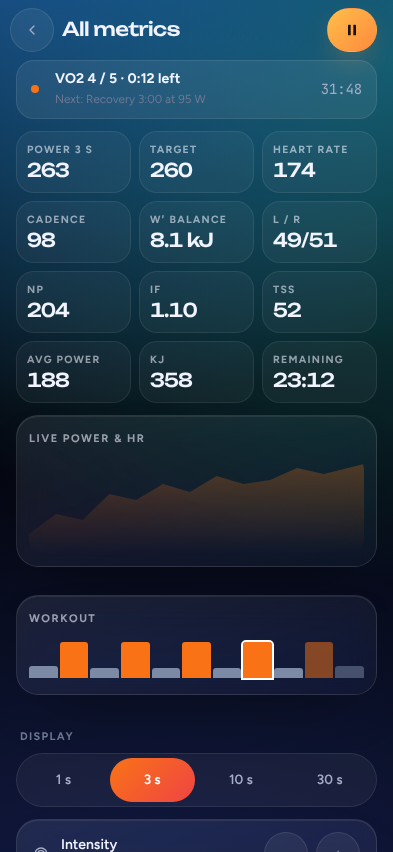
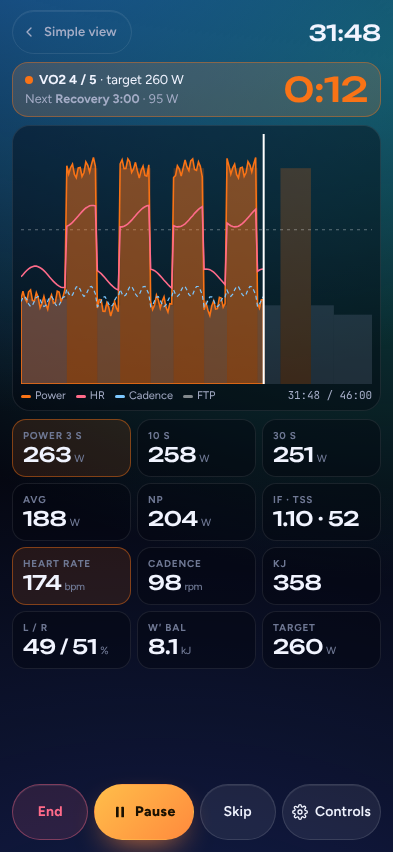
docs(ux): all-metrics ride view, portrait and landscape
Claude-Session: https://claude.ai/code/session_01HLsCRAR7ggr5wR8fQJGWzk

diff --git a/docs/ux/mockups.html b/docs/ux/mockups.html
@@ -131,6 +131,34 @@
     .mx-land-side { display: flex; flex-direction: column; gap: 10px; justify-content: space-between; }
     .mx-land-ctrl { display: grid; grid-template-columns: 1fr 1.3fr 1fr 44px; gap: 6px; }
     .mx-land-ctrl .btn { min-height: 56px; justify-content: center; padding: 0 8px; }
+    .mx-full { flex: 1; display: flex; flex-direction: column; gap: 8px; padding: 10px 12px 12px; min-height: 0; }
+    .mx-full .mx-lv-top .btn { padding: 0 14px 0 8px; }
+    .mx-istrip { display: grid; grid-template-columns: 1fr auto; grid-template-rows: auto auto; column-gap: 10px; align-items: center; padding: 8px 12px; border-radius: 16px;
+      background: color-mix(in srgb, var(--zone-a) 14%, rgba(255,255,255,.04)); border: 1px solid color-mix(in srgb, var(--zone-a) 40%, transparent); font-size: 13px; }
+    .mx-ileft { grid-row: 1 / span 2; grid-column: 2; font: 500 34px/1 var(--font-display); color: var(--zone-a); }
+    .mx-inext { color: var(--text-2); font-size: 12.5px; }
+    .mx-gcard { border-radius: 18px; background: var(--surface-sunk); border: 1px solid var(--line); padding: 8px 8px 6px; }
+    .mx-graph { display: block; width: 100%; height: 250px; }
+    .mx-legend { display: flex; gap: 10px; align-items: center; font-size: 11px; color: var(--text-2); margin-top: 4px; flex-wrap: wrap; }
+    .mx-legend i { display: inline-block; width: 10px; height: 3px; border-radius: 2px; margin-right: 4px; vertical-align: middle; }
+    .mx-lg-time { margin-left: auto; }
+    .mx-tiles { display: grid; grid-template-columns: repeat(3, 1fr); gap: 6px; }
+    .mx-t { display: flex; flex-direction: column; justify-content: center; padding: 7px 10px; min-height: 58px; border-radius: 14px; background: var(--surface-sunk); border: 1px solid var(--line); min-width: 0; }
+    .mx-t span { font-size: 10px; font-weight: 700; letter-spacing: .08em; text-transform: uppercase; color: var(--text-3); white-space: nowrap; }
+    .mx-t b { font: 500 20px/1.2 var(--font-display); white-space: nowrap; letter-spacing: -.02em; }
+    .mx-t b small { font: 500 10.5px var(--font-sans); color: var(--text-3); margin-left: 3px; }
+    .mx-t-hero { border-color: color-mix(in srgb, var(--zone-a) 45%, transparent); background: color-mix(in srgb, var(--zone-a) 12%, transparent); }
+    .mx-fctrl { display: grid; grid-template-columns: 1fr 1.3fr 1fr 1.3fr; gap: 6px; margin-top: auto; }
+    .mx-fctrl .btn { min-height: 56px; padding: 0 6px; font-size: 14px; }
+    .mx-full-l { flex: 1; display: grid; grid-template-columns: minmax(0, 1fr) 330px; gap: 10px; padding: 8px 12px; min-height: 0; }
+    .mx-fl-left { display: flex; flex-direction: column; gap: 6px; min-width: 0; }
+    .mx-full-l .mx-graph { height: 150px; }
+    .mx-full-l .mx-istrip { padding: 4px 12px; }
+    .mx-full-l .mx-ileft { font-size: 28px; }
+    .mx-full-l .mx-fctrl .btn { min-height: 48px; }
+    .mx-tiles-l { grid-template-rows: repeat(4, 1fr); align-content: stretch; }
+    .mx-tiles-l .mx-t { min-height: 0; padding: 4px 10px; }
+    .mx-tiles-l .mx-t b { font-size: 18px; }
   </style>
 </head>
 <body class="mx">
@@ -199,7 +227,7 @@
   <a href="#progress-fitness">Progress › Fitness</a><a href="#you-connections">You › Connections</a><a href="#you-data">You › Data &amp; import</a>
   <div class="grp">Live ride</div>
   <a href="#live-vo2">a · VO2, end of step</a><a href="#live-recovery">b · Recovery step</a><a href="#live-ramp">c · Ramp test</a><a href="#live-free">d · Free ride, HR only</a>
-  <a href="#live-full">e · All metrics</a><a href="#live-landscape">f · Landscape</a><a href="#live-paused">g · Paused, reconnecting</a><a href="#live-summary">h · Ride summary</a>
+  <a href="#live-full">e · All metrics</a><a href="#live-full-landscape">e · All metrics, landscape</a><a href="#live-controls">e · Ride controls sheet</a><a href="#live-landscape">f · Landscape</a><a href="#live-paused">g · Paused, reconnecting</a><a href="#live-summary">h · Ride summary</a>
   <div class="grp">First run</div>
   <a href="#ob-1">1 · Rider profile</a><a href="#ob-2">2 · Pair devices</a><a href="#ob-3">3 · Connect services</a>
 </nav>
@@ -318,27 +346,55 @@
   </section>
 
   <section class="mx-screen" id="live-full" data-tab="ride" data-notabs style="--zone-a:#f97316;--zone-b:#ef4444">
-    <header class="mx-top"><a class="icon-btn mx-back" href="#live-vo2" aria-label="Back to simple view"><svg class="ic"><use href="#i-left"/></svg></a><h2 style="font-size:19px">All metrics</h2><a class="btn btn-pause" href="#live-paused" style="min-height:44px"><svg class="ic"><use href="#i-pause"/></svg></a></header>
-    <div class="mx-body">
-      <div class="mx-next" style="margin:0"><span class="mx-dot" style="background:var(--z5)"></span><div><b>VO2 4 / 5 · 0:12 left</b><small>Next: Recovery 3:00 at 95 W</small></div><span class="num">31:48</span></div>
-      <div class="mx-mgrid">
-        <div class="kpi"><span class="kpi-lbl">Power 3 s</span><span class="kpi-val num">263</span></div><div class="kpi"><span class="kpi-lbl">Target</span><span class="kpi-val num">260</span></div><div class="kpi"><span class="kpi-lbl">Heart rate</span><span class="kpi-val num">174</span></div>
-        <div class="kpi"><span class="kpi-lbl">Cadence</span><span class="kpi-val num">98</span></div><div class="kpi"><span class="kpi-lbl">W′ balance</span><span class="kpi-val num">8.1 kJ</span></div><div class="kpi"><span class="kpi-lbl">L / R</span><span class="kpi-val num">49/51</span></div>
-        <div class="kpi"><span class="kpi-lbl">NP</span><span class="kpi-val num">204</span></div><div class="kpi"><span class="kpi-lbl">IF</span><span class="kpi-val num">1.10</span></div><div class="kpi"><span class="kpi-lbl">TSS</span><span class="kpi-val num">52</span></div>
-        <div class="kpi"><span class="kpi-lbl">Avg power</span><span class="kpi-val num">188</span></div><div class="kpi"><span class="kpi-lbl">kJ</span><span class="kpi-val num">358</span></div><div class="kpi"><span class="kpi-lbl">Remaining</span><span class="kpi-val num">23:12</span></div>
+    <div class="mx-full">
+      <div class="mx-lv-top"><a class="btn btn-ghost" href="#live-vo2"><svg class="ic"><use href="#i-left"/></svg>Simple view</a><span class="mx-lv-clock num">31:48</span></div>
+      <div class="mx-istrip"><div><span class="mx-dot" style="background:var(--z5)"></span><b>VO2 4 / 5</b> · target 260 W</div><b class="num mx-ileft">0:12</b><div class="mx-inext">Next <b>Recovery 3:00</b> · 95 W</div></div>
+      <div class="mx-gcard"><svg class="mx-graph" viewBox="0 0 360 150" preserveAspectRatio="none" aria-label="Live power, heart rate and cadence over the workout profile">
+          <rect x="0.0" y="99.1" width="47.0" height="50.9" fill="var(--z2)" opacity=".22"/><rect x="47.0" y="20.5" width="31.3" height="129.5" fill="var(--z5)" opacity=".22"/><rect x="78.3" y="102.8" width="23.5" height="47.2" fill="var(--z1)" opacity=".22"/><rect x="101.7" y="20.5" width="31.3" height="129.5" fill="var(--z5)" opacity=".22"/><rect x="133.0" y="102.8" width="23.5" height="47.2" fill="var(--z1)" opacity=".22"/><rect x="156.5" y="20.5" width="31.3" height="129.5" fill="var(--z5)" opacity=".22"/><rect x="187.8" y="102.8" width="23.5" height="47.2" fill="var(--z1)" opacity=".22"/><rect x="211.3" y="20.5" width="31.3" height="129.5" fill="var(--z5)" opacity=".22"/><rect x="242.6" y="102.8" width="23.5" height="47.2" fill="var(--z1)" opacity=".22"/><rect x="266.1" y="20.5" width="31.3" height="129.5" fill="var(--z5)" opacity=".22"/><rect x="297.4" y="102.8" width="23.5" height="47.2" fill="var(--z1)" opacity=".22"/><rect x="320.9" y="108.4" width="39.1" height="41.6" fill="var(--z1)" opacity=".22"/>
+          <line x1="0" x2="360" y1="57.5" y2="57.5" stroke="rgba(255,255,255,.35)" stroke-dasharray="3 4" stroke-width="1" vector-effect="non-scaling-stroke"/>
+          <path d="M0,150 L0.0,99.1 2.0,94.3 3.9,98.5 5.9,100.6 7.8,94.7 9.8,93.5 11.7,99.9 13.7,100.3 15.7,95.2 17.6,98.0 19.6,104.3 21.5,101.7 23.5,97.5 25.4,102.0 27.4,105.2 29.3,99.4 31.3,96.5 33.3,101.5 35.2,101.1 37.2,94.3 39.1,94.8 41.1,100.3 43.0,97.9 45.0,93.2 47.0,19.0 48.9,24.0 50.9,20.1 52.8,18.1 54.8,24.3 56.7,26.2 58.7,20.3 60.7,20.1 62.6,25.5 64.6,23.1 66.5,16.7 68.5,18.8 70.4,22.8 72.4,18.0 74.3,14.1 76.3,19.4 78.3,104.4 80.2,99.3 82.2,99.4 84.1,106.3 86.1,106.4 88.0,101.3 90.0,103.9 92.0,109.2 93.9,105.4 95.9,100.5 97.8,104.4 99.8,106.6 101.7,17.9 103.7,15.4 105.7,20.8 107.6,20.7 109.6,14.9 111.5,16.7 113.5,23.0 115.4,21.0 117.4,17.0 119.3,22.0 121.3,26.5 123.3,21.8 125.2,19.3 127.2,24.8 129.1,25.3 131.1,18.5 133.0,100.4 135.0,105.3 137.0,102.6 138.9,96.7 140.9,99.8 142.8,104.4 144.8,100.3 146.7,97.7 148.7,104.0 150.7,106.8 152.6,101.8 154.6,102.0 156.5,26.1 158.5,25.0 160.4,19.0 162.4,21.0 164.3,25.3 166.3,20.5 168.3,15.5 170.2,19.7 172.2,21.9 174.1,16.1 176.1,14.9 178.0,21.3 180.0,21.8 182.0,16.7 183.9,19.4 185.9,25.7 187.8,105.5 189.8,101.3 191.7,105.7 193.7,108.9 195.7,103.0 197.6,100.1 199.6,105.0 201.5,104.8 203.5,98.0 205.4,98.4 207.4,103.9 209.3,101.7 211.3,14.6 213.3,19.1 215.2,24.1 217.2,20.3 219.1,18.1 221.1,24.3 223.0,26.3 225.0,20.3 227.0,20.0 228.9,25.4 230.9,23.1 232.8,16.6 234.8,18.7 236.7,22.7 238.7,18.0 240.7,14.1 242.6,101.7 244.6,104.5 246.5,99.5 248.5,99.4 L248.9,150 Z" fill="color-mix(in srgb, var(--zone-a) 35%, transparent)" stroke="var(--zone-a)" stroke-width="1.6" vector-effect="non-scaling-stroke"/>
+          <polyline points="0.0,85.7 2.0,84.4 3.9,83.1 5.9,81.9 7.8,80.9 9.8,80.1 11.7,79.6 13.7,79.3 15.7,79.3 17.6,79.6 19.6,80.2 21.5,81.0 23.5,82.0 25.4,83.1 27.4,84.4 29.3,85.8 31.3,87.1 33.3,88.4 35.2,89.5 37.2,90.5 39.1,91.3 41.1,91.9 43.0,92.1 45.0,92.1 47.0,55.4 48.9,54.8 50.9,54.0 52.8,53.0 54.8,51.8 56.7,50.5 58.7,49.2 60.7,47.8 62.6,46.6 64.6,45.4 66.5,44.4 68.5,43.7 70.4,43.1 72.4,42.9 74.3,42.9 76.3,43.2 78.3,81.9 80.2,82.8 82.2,83.8 84.1,85.0 86.1,86.2 88.0,87.6 90.0,88.9 92.0,90.2 93.9,91.3 95.9,92.3 97.8,93.1 99.8,93.6 101.7,55.7 103.7,55.7 105.7,55.3 107.6,54.8 109.6,53.9 111.5,52.9 113.5,51.7 115.4,50.4 117.4,49.1 119.3,47.7 121.3,46.5 123.3,45.3 125.2,44.4 127.2,43.6 129.1,43.1 131.1,42.9 133.0,81.1 135.0,81.4 137.0,82.0 138.9,82.8 140.9,83.9 142.8,85.1 144.8,86.4 146.7,87.7 148.7,89.0 150.7,90.3 152.6,91.4 154.6,92.4 156.5,55.0 158.5,55.5 160.4,55.7 162.4,55.6 164.3,55.3 166.3,54.7 168.3,53.9 170.2,52.8 172.2,51.6 174.1,50.3 176.1,49.0 178.0,47.6 180.0,46.4 182.0,45.2 183.9,44.3 185.9,43.6 187.8,81.2 189.8,81.0 191.7,81.1 193.7,81.4 195.7,82.1 197.6,82.9 199.6,84.0 201.5,85.2 203.5,86.5 205.4,87.8 207.4,89.1 209.3,90.4 211.3,53.4 213.3,54.3 215.2,55.0 217.2,55.5 219.1,55.7 221.1,55.6 223.0,55.3 225.0,54.6 227.0,53.8 228.9,52.7 230.9,51.5 232.8,50.2 234.8,48.9 236.7,47.5 238.7,46.3 240.7,45.2 242.6,82.4 244.6,81.6 246.5,81.2 248.5,81.0" fill="none" stroke="var(--rose)" stroke-width="1.6" vector-effect="non-scaling-stroke"/>
+          <polyline points="0.0,100.5 2.0,98.1 3.9,97.5 5.9,99.2 7.8,101.9 9.8,103.5 11.7,102.9 13.7,100.4 15.7,98.0 17.6,97.5 19.6,99.2 21.5,101.9 23.5,103.5 25.4,102.9 27.4,100.4 29.3,98.0 31.3,97.5 33.3,99.3 35.2,102.0 37.2,103.5 39.1,102.8 41.1,100.3 43.0,98.0 45.0,97.5 47.0,93.1 48.9,95.8 50.9,97.4 52.8,96.6 54.8,94.1 56.7,91.8 58.7,91.4 60.7,93.2 62.6,95.9 64.6,97.4 66.5,96.6 68.5,94.1 70.4,91.7 72.4,91.4 74.3,93.2 76.3,95.9 78.3,103.6 80.2,102.7 82.2,100.2 84.1,97.9 86.1,97.6 88.0,99.5 90.0,102.1 92.0,103.6 93.9,102.7 95.9,100.1 97.8,97.9 99.8,97.6 101.7,93.3 103.7,96.0 105.7,97.4 107.6,96.5 109.6,93.9 111.5,91.7 113.5,91.4 115.4,93.4 117.4,96.0 119.3,97.4 121.3,96.4 123.3,93.8 125.2,91.6 127.2,91.4 129.1,93.4 131.1,96.1 133.0,103.6 135.0,102.6 137.0,100.0 138.9,97.8 140.9,97.6 142.8,99.7 144.8,102.3 146.7,103.6 148.7,102.5 150.7,99.9 152.6,97.8 154.6,97.7 156.5,93.5 158.5,96.2 160.4,97.4 162.4,96.3 164.3,93.7 166.3,91.6 168.3,91.5 170.2,93.6 172.2,96.2 174.1,97.4 176.1,96.3 178.0,93.6 180.0,91.5 182.0,91.5 183.9,93.6 185.9,96.3 187.8,103.6 189.8,102.4 191.7,99.8 193.7,97.7 195.7,97.7 197.6,99.9 199.6,102.5 201.5,103.6 203.5,102.4 205.4,99.7 207.4,97.7 209.3,97.8 211.3,93.7 213.3,96.3 215.2,97.4 217.2,96.1 219.1,93.5 221.1,91.5 223.0,91.6 225.0,93.8 227.0,96.4 228.9,97.4 230.9,96.1 232.8,93.4 234.8,91.4 236.7,91.6 238.7,93.8 240.7,96.4 242.6,103.6 244.6,102.2 246.5,99.6 248.5,97.6" fill="none" stroke="var(--cyan)" stroke-width="1.2" stroke-dasharray="4 3" vector-effect="non-scaling-stroke"/>
+          <line x1="248.9" x2="248.9" y1="0" y2="150" stroke="#fff" stroke-width="2" vector-effect="non-scaling-stroke"/>
+        </svg><div class="mx-legend"><span><i style="background:var(--zone-a)"></i>Power</span><span><i style="background:var(--rose)"></i>HR</span><span><i style="background:var(--cyan)"></i>Cadence</span><span><i style="background:rgba(255,255,255,.5)"></i>FTP</span><span class="mx-lg-time num">31:48 / 46:00</span></div></div>
+      <div class="mx-tiles"><div class="mx-t mx-t-hero"><span>Power 3 s</span><b class="num">263<small>W</small></b></div><div class="mx-t"><span>10 s</span><b class="num">258<small>W</small></b></div><div class="mx-t"><span>30 s</span><b class="num">251<small>W</small></b></div><div class="mx-t"><span>Avg</span><b class="num">188<small>W</small></b></div><div class="mx-t"><span>NP</span><b class="num">204<small>W</small></b></div><div class="mx-t"><span>IF · TSS</span><b class="num">1.10 · 52<small></small></b></div><div class="mx-t mx-t-hero"><span>Heart rate</span><b class="num">174<small>bpm</small></b></div><div class="mx-t"><span>Cadence</span><b class="num">98<small>rpm</small></b></div><div class="mx-t"><span>kJ</span><b class="num">358<small></small></b></div><div class="mx-t"><span>L / R</span><b class="num">49 / 51<small>%</small></b></div><div class="mx-t"><span>W′ bal</span><b class="num">8.1<small>kJ</small></b></div><div class="mx-t"><span>Target</span><b class="num">260<small>W</small></b></div></div>
+      <div class="mx-fctrl"><a class="btn btn-stop" href="#live-summary">End</a><a class="btn btn-pause" href="#live-paused"><svg class="ic"><use href="#i-pause"/></svg>Pause</a><a class="btn" href="#live-recovery">Skip</a><a class="btn" href="#live-controls"><svg class="ic"><use href="#i-gear"/></svg>Controls</a></div>
+    </div>
+  </section>
+
+  <section class="mx-screen" id="live-full-landscape" data-tab="ride" data-notabs data-landscape style="--zone-a:#f97316;--zone-b:#ef4444">
+    <div class="mx-full-l">
+      <div class="mx-fl-left">
+        <div class="mx-istrip"><div><span class="mx-dot" style="background:var(--z5)"></span><b>VO2 4 / 5</b> · target 260 W</div><b class="num mx-ileft">0:12</b><div class="mx-inext">Next <b>Recovery 3:00</b> · 95 W</div></div>
+        <div class="mx-gcard"><svg class="mx-graph" viewBox="0 0 360 150" preserveAspectRatio="none" aria-label="Live power, heart rate and cadence over the workout profile">
+          <rect x="0.0" y="99.1" width="47.0" height="50.9" fill="var(--z2)" opacity=".22"/><rect x="47.0" y="20.5" width="31.3" height="129.5" fill="var(--z5)" opacity=".22"/><rect x="78.3" y="102.8" width="23.5" height="47.2" fill="var(--z1)" opacity=".22"/><rect x="101.7" y="20.5" width="31.3" height="129.5" fill="var(--z5)" opacity=".22"/><rect x="133.0" y="102.8" width="23.5" height="47.2" fill="var(--z1)" opacity=".22"/><rect x="156.5" y="20.5" width="31.3" height="129.5" fill="var(--z5)" opacity=".22"/><rect x="187.8" y="102.8" width="23.5" height="47.2" fill="var(--z1)" opacity=".22"/><rect x="211.3" y="20.5" width="31.3" height="129.5" fill="var(--z5)" opacity=".22"/><rect x="242.6" y="102.8" width="23.5" height="47.2" fill="var(--z1)" opacity=".22"/><rect x="266.1" y="20.5" width="31.3" height="129.5" fill="var(--z5)" opacity=".22"/><rect x="297.4" y="102.8" width="23.5" height="47.2" fill="var(--z1)" opacity=".22"/><rect x="320.9" y="108.4" width="39.1" height="41.6" fill="var(--z1)" opacity=".22"/>
+          <line x1="0" x2="360" y1="57.5" y2="57.5" stroke="rgba(255,255,255,.35)" stroke-dasharray="3 4" stroke-width="1" vector-effect="non-scaling-stroke"/>
+          <path d="M0,150 L0.0,99.1 2.0,94.3 3.9,98.5 5.9,100.6 7.8,94.7 9.8,93.5 11.7,99.9 13.7,100.3 15.7,95.2 17.6,98.0 19.6,104.3 21.5,101.7 23.5,97.5 25.4,102.0 27.4,105.2 29.3,99.4 31.3,96.5 33.3,101.5 35.2,101.1 37.2,94.3 39.1,94.8 41.1,100.3 43.0,97.9 45.0,93.2 47.0,19.0 48.9,24.0 50.9,20.1 52.8,18.1 54.8,24.3 56.7,26.2 58.7,20.3 60.7,20.1 62.6,25.5 64.6,23.1 66.5,16.7 68.5,18.8 70.4,22.8 72.4,18.0 74.3,14.1 76.3,19.4 78.3,104.4 80.2,99.3 82.2,99.4 84.1,106.3 86.1,106.4 88.0,101.3 90.0,103.9 92.0,109.2 93.9,105.4 95.9,100.5 97.8,104.4 99.8,106.6 101.7,17.9 103.7,15.4 105.7,20.8 107.6,20.7 109.6,14.9 111.5,16.7 113.5,23.0 115.4,21.0 117.4,17.0 119.3,22.0 121.3,26.5 123.3,21.8 125.2,19.3 127.2,24.8 129.1,25.3 131.1,18.5 133.0,100.4 135.0,105.3 137.0,102.6 138.9,96.7 140.9,99.8 142.8,104.4 144.8,100.3 146.7,97.7 148.7,104.0 150.7,106.8 152.6,101.8 154.6,102.0 156.5,26.1 158.5,25.0 160.4,19.0 162.4,21.0 164.3,25.3 166.3,20.5 168.3,15.5 170.2,19.7 172.2,21.9 174.1,16.1 176.1,14.9 178.0,21.3 180.0,21.8 182.0,16.7 183.9,19.4 185.9,25.7 187.8,105.5 189.8,101.3 191.7,105.7 193.7,108.9 195.7,103.0 197.6,100.1 199.6,105.0 201.5,104.8 203.5,98.0 205.4,98.4 207.4,103.9 209.3,101.7 211.3,14.6 213.3,19.1 215.2,24.1 217.2,20.3 219.1,18.1 221.1,24.3 223.0,26.3 225.0,20.3 227.0,20.0 228.9,25.4 230.9,23.1 232.8,16.6 234.8,18.7 236.7,22.7 238.7,18.0 240.7,14.1 242.6,101.7 244.6,104.5 246.5,99.5 248.5,99.4 L248.9,150 Z" fill="color-mix(in srgb, var(--zone-a) 35%, transparent)" stroke="var(--zone-a)" stroke-width="1.6" vector-effect="non-scaling-stroke"/>
+          <polyline points="0.0,85.7 2.0,84.4 3.9,83.1 5.9,81.9 7.8,80.9 9.8,80.1 11.7,79.6 13.7,79.3 15.7,79.3 17.6,79.6 19.6,80.2 21.5,81.0 23.5,82.0 25.4,83.1 27.4,84.4 29.3,85.8 31.3,87.1 33.3,88.4 35.2,89.5 37.2,90.5 39.1,91.3 41.1,91.9 43.0,92.1 45.0,92.1 47.0,55.4 48.9,54.8 50.9,54.0 52.8,53.0 54.8,51.8 56.7,50.5 58.7,49.2 60.7,47.8 62.6,46.6 64.6,45.4 66.5,44.4 68.5,43.7 70.4,43.1 72.4,42.9 74.3,42.9 76.3,43.2 78.3,81.9 80.2,82.8 82.2,83.8 84.1,85.0 86.1,86.2 88.0,87.6 90.0,88.9 92.0,90.2 93.9,91.3 95.9,92.3 97.8,93.1 99.8,93.6 101.7,55.7 103.7,55.7 105.7,55.3 107.6,54.8 109.6,53.9 111.5,52.9 113.5,51.7 115.4,50.4 117.4,49.1 119.3,47.7 121.3,46.5 123.3,45.3 125.2,44.4 127.2,43.6 129.1,43.1 131.1,42.9 133.0,81.1 135.0,81.4 137.0,82.0 138.9,82.8 140.9,83.9 142.8,85.1 144.8,86.4 146.7,87.7 148.7,89.0 150.7,90.3 152.6,91.4 154.6,92.4 156.5,55.0 158.5,55.5 160.4,55.7 162.4,55.6 164.3,55.3 166.3,54.7 168.3,53.9 170.2,52.8 172.2,51.6 174.1,50.3 176.1,49.0 178.0,47.6 180.0,46.4 182.0,45.2 183.9,44.3 185.9,43.6 187.8,81.2 189.8,81.0 191.7,81.1 193.7,81.4 195.7,82.1 197.6,82.9 199.6,84.0 201.5,85.2 203.5,86.5 205.4,87.8 207.4,89.1 209.3,90.4 211.3,53.4 213.3,54.3 215.2,55.0 217.2,55.5 219.1,55.7 221.1,55.6 223.0,55.3 225.0,54.6 227.0,53.8 228.9,52.7 230.9,51.5 232.8,50.2 234.8,48.9 236.7,47.5 238.7,46.3 240.7,45.2 242.6,82.4 244.6,81.6 246.5,81.2 248.5,81.0" fill="none" stroke="var(--rose)" stroke-width="1.6" vector-effect="non-scaling-stroke"/>
+          <polyline points="0.0,100.5 2.0,98.1 3.9,97.5 5.9,99.2 7.8,101.9 9.8,103.5 11.7,102.9 13.7,100.4 15.7,98.0 17.6,97.5 19.6,99.2 21.5,101.9 23.5,103.5 25.4,102.9 27.4,100.4 29.3,98.0 31.3,97.5 33.3,99.3 35.2,102.0 37.2,103.5 39.1,102.8 41.1,100.3 43.0,98.0 45.0,97.5 47.0,93.1 48.9,95.8 50.9,97.4 52.8,96.6 54.8,94.1 56.7,91.8 58.7,91.4 60.7,93.2 62.6,95.9 64.6,97.4 66.5,96.6 68.5,94.1 70.4,91.7 72.4,91.4 74.3,93.2 76.3,95.9 78.3,103.6 80.2,102.7 82.2,100.2 84.1,97.9 86.1,97.6 88.0,99.5 90.0,102.1 92.0,103.6 93.9,102.7 95.9,100.1 97.8,97.9 99.8,97.6 101.7,93.3 103.7,96.0 105.7,97.4 107.6,96.5 109.6,93.9 111.5,91.7 113.5,91.4 115.4,93.4 117.4,96.0 119.3,97.4 121.3,96.4 123.3,93.8 125.2,91.6 127.2,91.4 129.1,93.4 131.1,96.1 133.0,103.6 135.0,102.6 137.0,100.0 138.9,97.8 140.9,97.6 142.8,99.7 144.8,102.3 146.7,103.6 148.7,102.5 150.7,99.9 152.6,97.8 154.6,97.7 156.5,93.5 158.5,96.2 160.4,97.4 162.4,96.3 164.3,93.7 166.3,91.6 168.3,91.5 170.2,93.6 172.2,96.2 174.1,97.4 176.1,96.3 178.0,93.6 180.0,91.5 182.0,91.5 183.9,93.6 185.9,96.3 187.8,103.6 189.8,102.4 191.7,99.8 193.7,97.7 195.7,97.7 197.6,99.9 199.6,102.5 201.5,103.6 203.5,102.4 205.4,99.7 207.4,97.7 209.3,97.8 211.3,93.7 213.3,96.3 215.2,97.4 217.2,96.1 219.1,93.5 221.1,91.5 223.0,91.6 225.0,93.8 227.0,96.4 228.9,97.4 230.9,96.1 232.8,93.4 234.8,91.4 236.7,91.6 238.7,93.8 240.7,96.4 242.6,103.6 244.6,102.2 246.5,99.6 248.5,97.6" fill="none" stroke="var(--cyan)" stroke-width="1.2" stroke-dasharray="4 3" vector-effect="non-scaling-stroke"/>
+          <line x1="248.9" x2="248.9" y1="0" y2="150" stroke="#fff" stroke-width="2" vector-effect="non-scaling-stroke"/>
+        </svg><div class="mx-legend"><span><i style="background:var(--zone-a)"></i>Power</span><span><i style="background:var(--rose)"></i>HR</span><span><i style="background:var(--cyan)"></i>Cadence</span><span><i style="background:rgba(255,255,255,.5)"></i>FTP</span><span class="mx-lg-time num">31:48 / 46:00</span></div></div>
+        <div class="mx-fctrl"><a class="btn btn-stop" href="#live-summary">End</a><a class="btn btn-pause" href="#live-paused"><svg class="ic"><use href="#i-pause"/></svg>Pause</a><a class="btn" href="#live-recovery">Skip</a><a class="btn" href="#live-controls"><svg class="ic"><use href="#i-gear"/></svg>Controls</a></div>
       </div>
-      <div class="card" style="padding:12px"><span class="eyebrow">Live power &amp; HR</span><div class="mx-chart" style="margin-top:6px;height:100px"></div></div>
-      <div class="card" style="padding:12px"><span class="eyebrow">Workout</span>
-        <div class="mx-wo" style="height:40px"><i style="height:30%;background:var(--z1)"></i><i style="height:90%;background:var(--z5)"></i><i style="height:25%;background:var(--z1)"></i><i style="height:90%;background:var(--z5)"></i><i style="height:25%;background:var(--z1)"></i><i style="height:90%;background:var(--z5)"></i><i style="height:25%;background:var(--z1)"></i><i style="height:90%;background:var(--z5);outline:2px solid #fff"></i><i style="height:25%;background:var(--z1)"></i><i style="height:90%;background:var(--z5);opacity:.5"></i><i style="height:30%;background:var(--z1);opacity:.5"></i></div></div>
-      <div class="mx-label">Display</div>
-      <div class="mx-seg"><a href="#live-full">1 s</a><a class="on" href="#live-full">3 s</a><a href="#live-full">10 s</a><a href="#live-full">30 s</a></div>
-      <div class="card mx-list">
-        <div class="mx-row"><svg class="ic"><use href="#i-target"/></svg><div><b>Intensity</b><small>100 %</small></div><span class="btn-row"><a class="icon-btn" href="#live-full">−</a><a class="icon-btn" href="#live-full">+</a></span></div>
+      <div class="mx-tiles mx-tiles-l"><div class="mx-t mx-t-hero"><span>Power 3 s</span><b class="num">263<small>W</small></b></div><div class="mx-t"><span>10 s</span><b class="num">258<small>W</small></b></div><div class="mx-t"><span>30 s</span><b class="num">251<small>W</small></b></div><div class="mx-t"><span>Avg</span><b class="num">188<small>W</small></b></div><div class="mx-t"><span>NP</span><b class="num">204<small>W</small></b></div><div class="mx-t"><span>IF · TSS</span><b class="num">1.10 · 52<small></small></b></div><div class="mx-t mx-t-hero"><span>Heart rate</span><b class="num">174<small>bpm</small></b></div><div class="mx-t"><span>Cadence</span><b class="num">98<small>rpm</small></b></div><div class="mx-t"><span>kJ</span><b class="num">358<small></small></b></div><div class="mx-t"><span>L / R</span><b class="num">49 / 51<small>%</small></b></div><div class="mx-t"><span>W′ bal</span><b class="num">8.1<small>kJ</small></b></div><div class="mx-t"><span>Target</span><b class="num">260<small>W</small></b></div></div>
+    </div>
+  </section>
+
+  <section class="mx-screen" id="live-controls" data-tab="ride" data-notabs data-under="live-full">
+    <div class="mx-sheet-bg"><div class="mx-sheet">
+      <div class="mx-grab"></div>
+      <div style="display:flex;align-items:center;justify-content:space-between"><h3 style="margin:0;font-family:var(--font-display);font-weight:500">Ride controls</h3><a class="icon-btn" href="#live-full" aria-label="Close"><svg class="ic"><use href="#i-x"/></svg></a></div>
+      <div class="mx-label" style="margin-top:10px">Power smoothing</div>
+      <div class="mx-seg" style="margin-top:8px"><a href="#live-controls">1 s</a><a class="on" href="#live-controls">3 s</a><a href="#live-controls">10 s</a><a href="#live-controls">30 s</a></div>
+      <div class="mx-list">
+        <div class="mx-row"><svg class="ic"><use href="#i-target"/></svg><div><b>Intensity</b><small>100 %</small></div><span class="btn-row"><a class="icon-btn" href="#live-controls">−</a><a class="icon-btn" href="#live-controls">+</a></span></div>
         <div class="mx-row"><svg class="ic"><use href="#i-bolt"/></svg><div><b>Mode · ERG</b><small>ERG response: normal</small></div><svg class="ic"><use href="#i-right"/></svg></div>
         <div class="mx-row"><svg class="ic"><use href="#i-volume"/></svg><div><b>Audio cues</b></div><span class="mx-switch"></span></div>
+        <a class="mx-row" href="#ride-devices"><svg class="ic"><use href="#i-bluetooth"/></svg><div><b>Devices</b><small>3 connected</small></div><svg class="ic"><use href="#i-right"/></svg></a>
+        <a class="mx-row" href="#live-vo2"><svg class="ic"><use href="#i-eye"/></svg><div><b>Simple view</b><small>Big power, countdown, next step</small></div><svg class="ic"><use href="#i-right"/></svg></a>
+        <div class="mx-row"><svg class="ic"><use href="#i-grid"/></svg><div><b>Choose tiles</b><small>Reorder or hide metrics</small></div><svg class="ic"><use href="#i-right"/></svg></div>
       </div>
-      <a class="btn btn-ghost mx-big" href="#live-vo2">Back to simple view</a>
-    </div>
+    </div></div>
   </section>
 
   <section class="mx-screen" id="live-landscape" data-tab="ride" data-notabs data-landscape style="--zone-a:#f97316;--zone-b:#ef4444">
